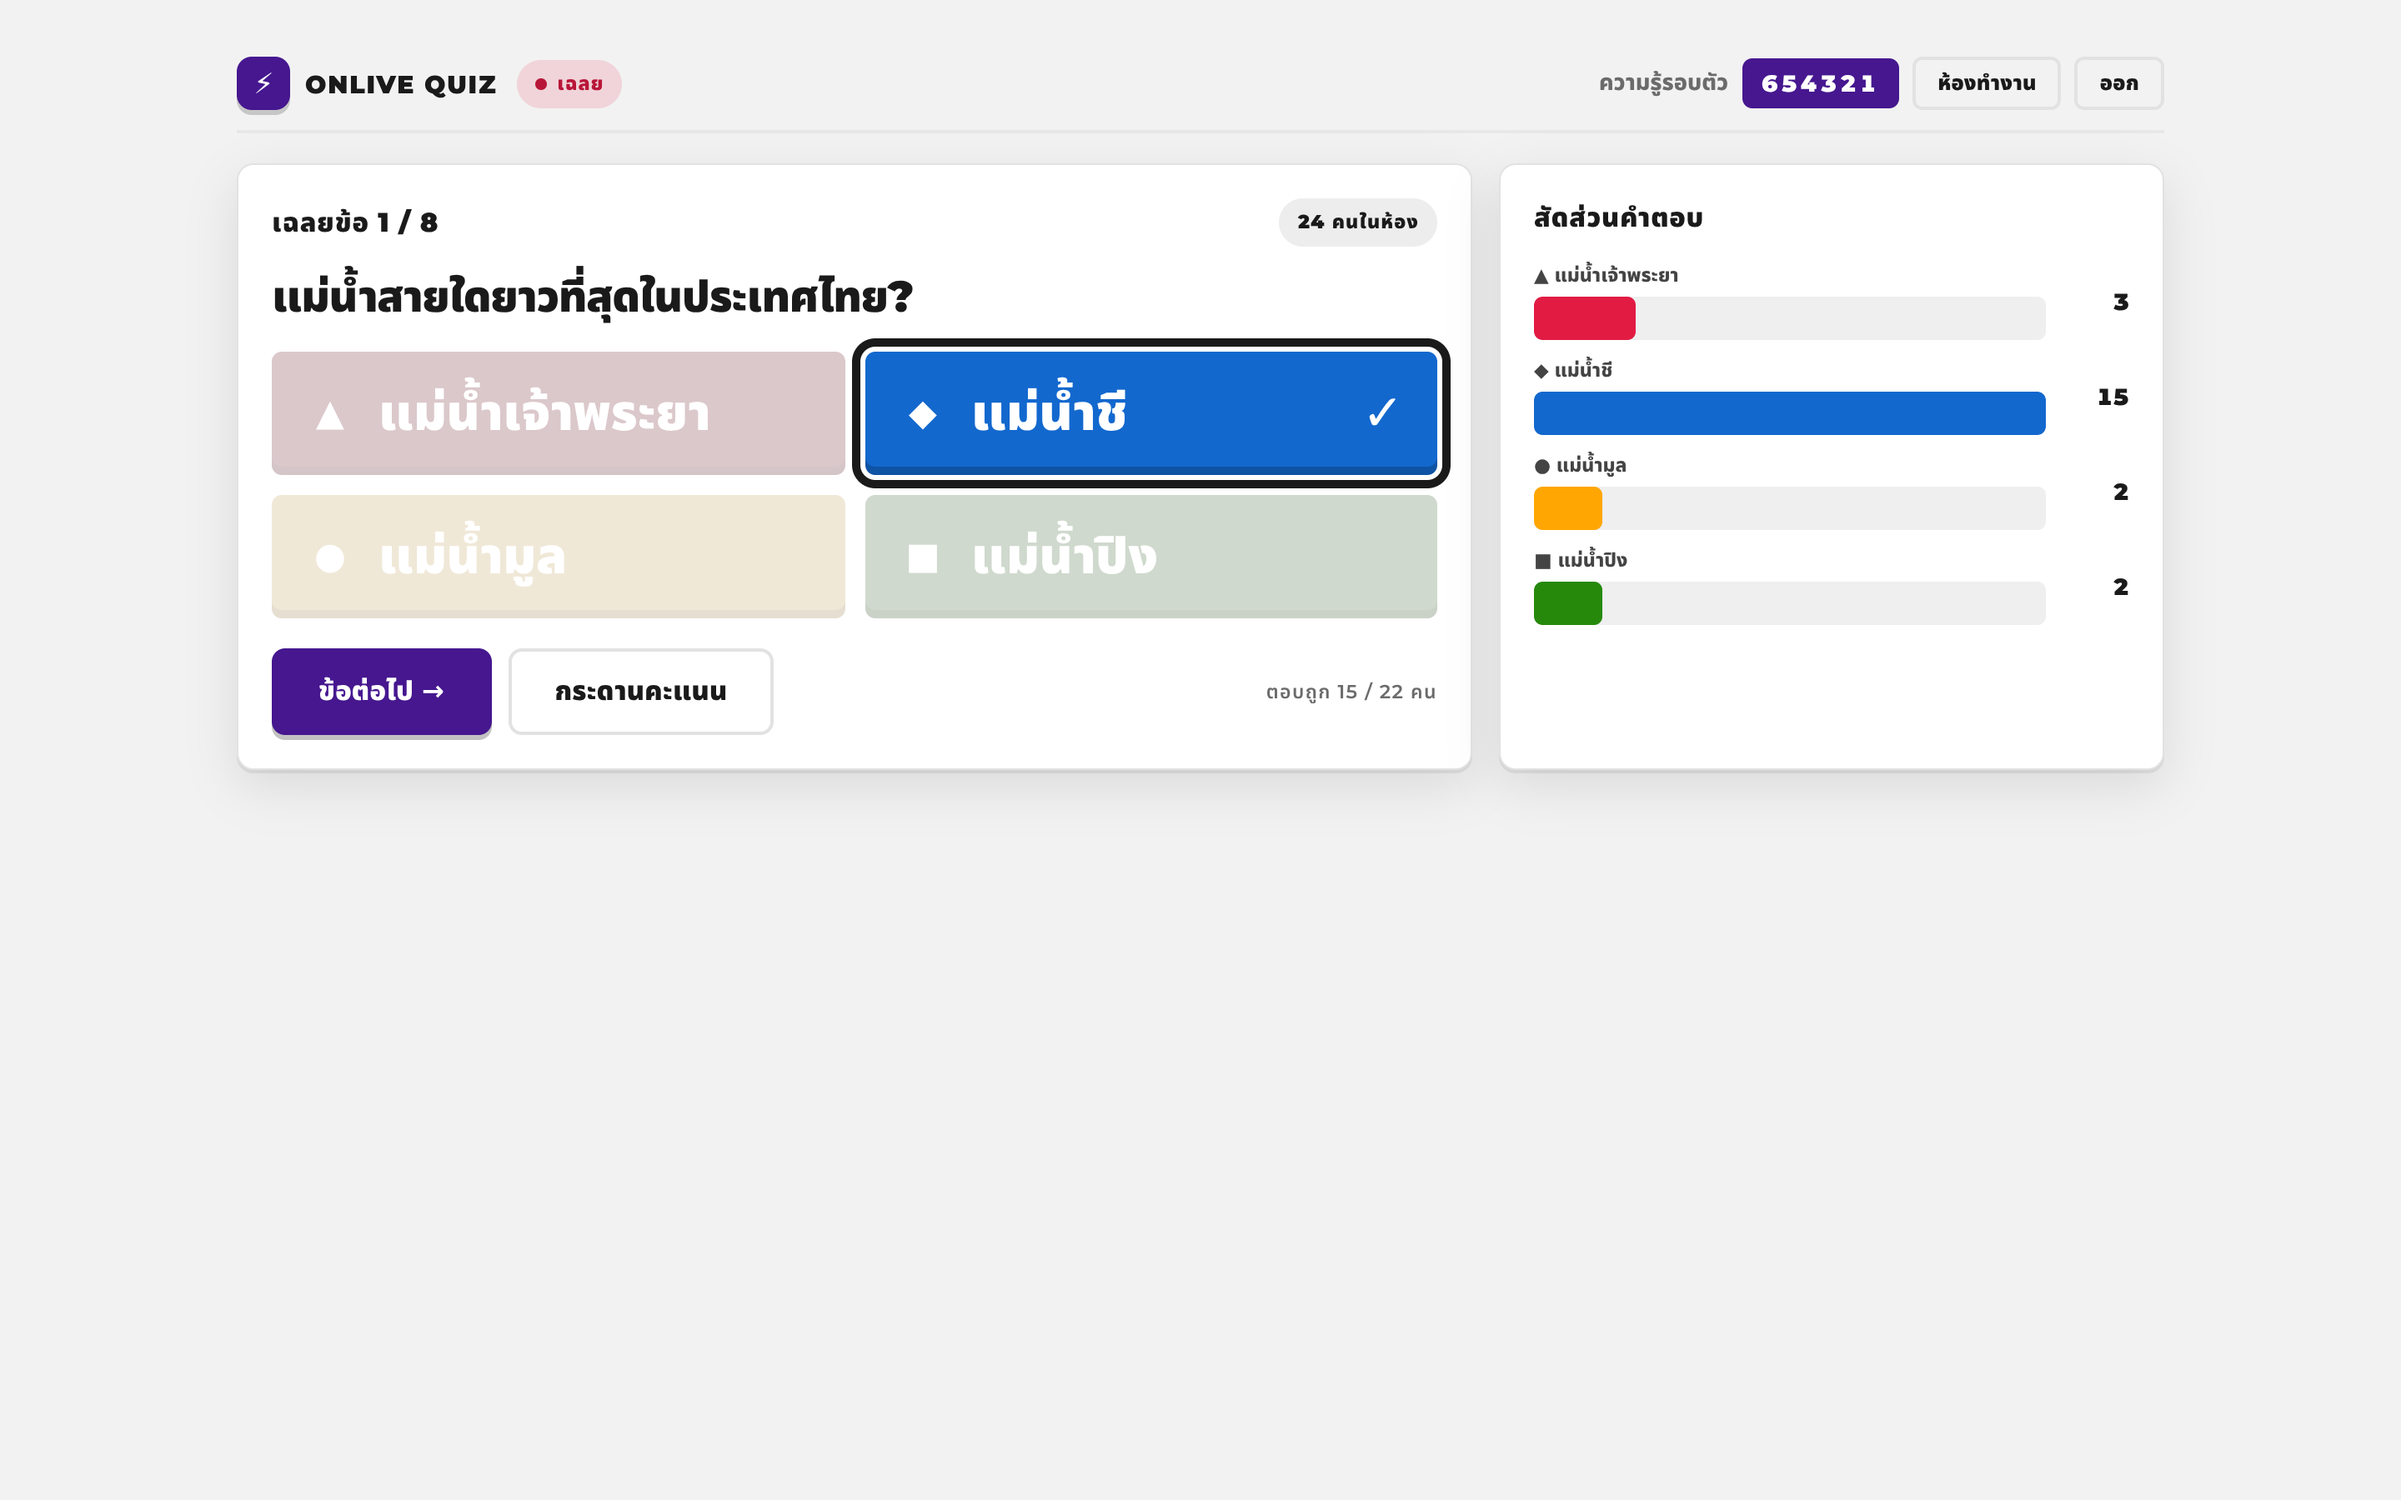
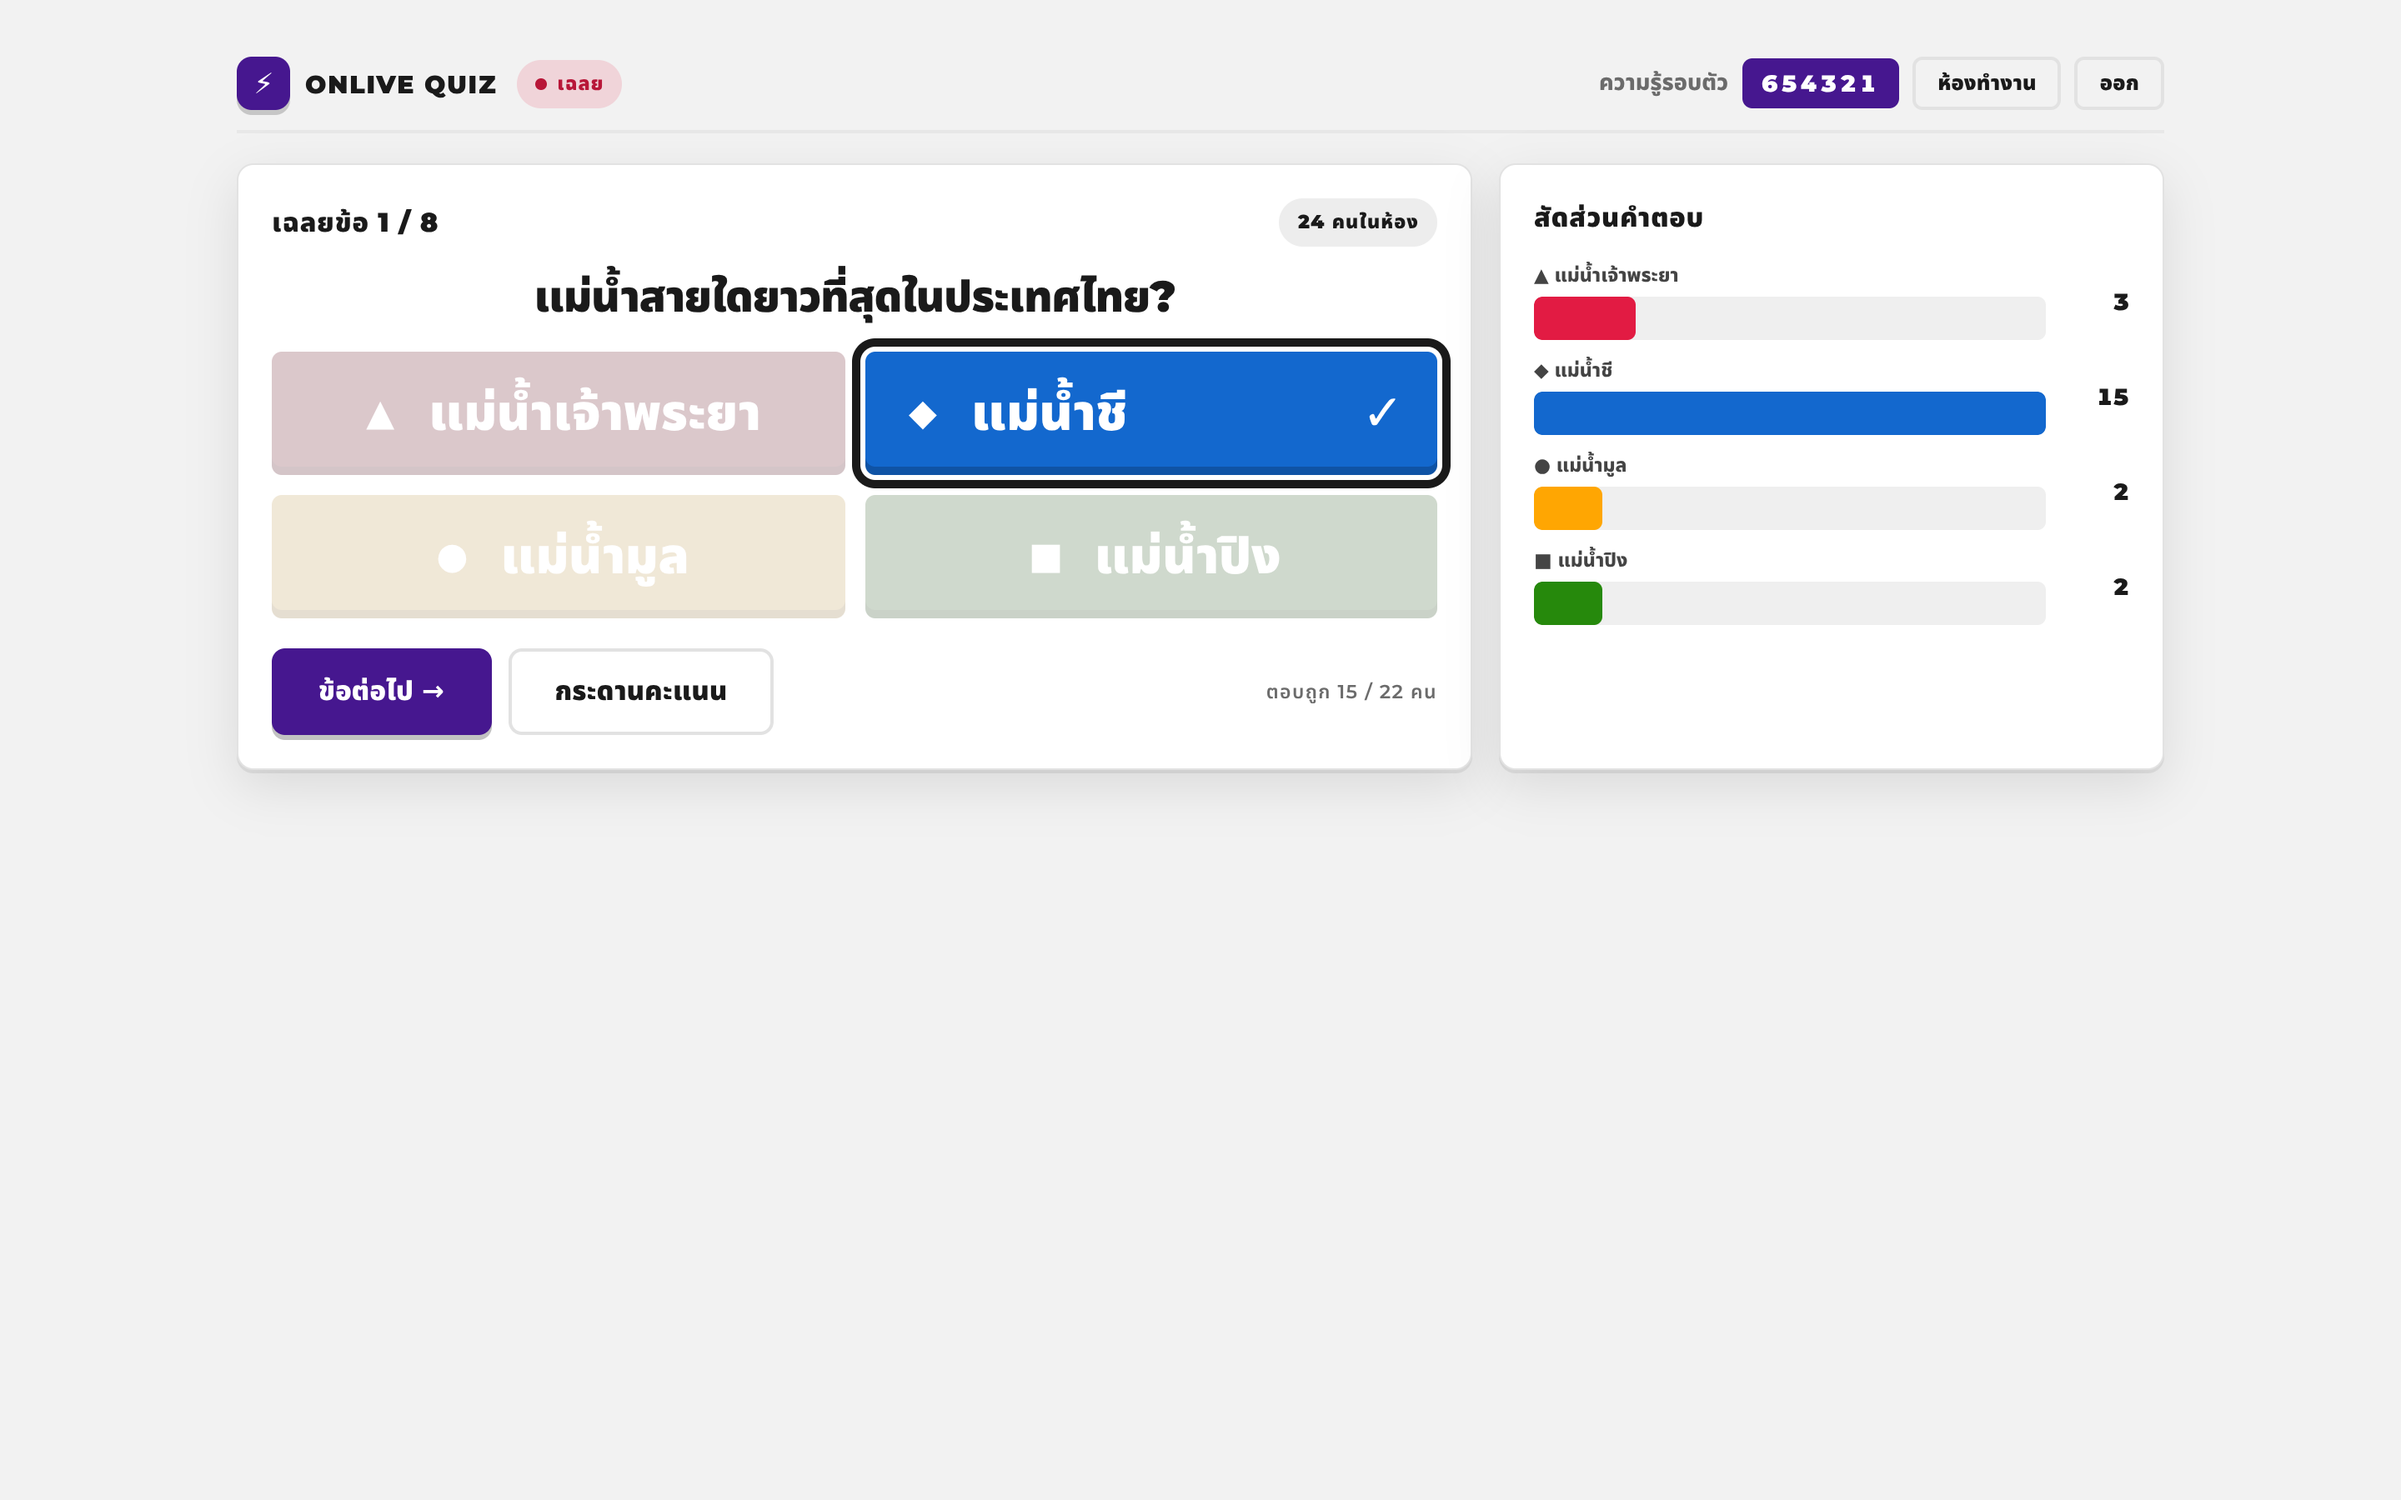
polish(design): centre host answer tiles + question, tune wordmark ratio
- host answer tiles: shape+label centred as a group (Kahoot layout)
- host prompt centred on question and reveal screens
- landing wordmark 0.80x card width (was 1.04x)
- kahoot-study.md: add round-2 compare table, findings F6-F8, unknown U4

diff --git a/docs/assets/css/app.css b/docs/assets/css/app.css
@@ -214,7 +214,7 @@ body.theme-play .card .pill{background:rgba(0,0,0,.07); color:var(--ink)}
 
 /* โลโก้ใหญ่กลางหน้าร่วมเกม */
 .k-logo-big{
-  font-weight:900; font-size:clamp(34px,5.6vw,62px); line-height:.92; text-align:center;
+  font-weight:900; font-size:clamp(30px,4.2vw,48px); line-height:.95; text-align:center;
   letter-spacing:-.045em; color:#fff; text-transform:lowercase;
   text-shadow:0 4px 0 rgba(0,0,0,.18);
 }
@@ -340,13 +340,13 @@ body.theme-host .timer .num{color:var(--purple)}
 }
 .host-prompt{
   font-size:clamp(24px,3.9vw,40px); font-weight:900; line-height:1.25; color:var(--ink);
-  letter-spacing:-.02em;
+  letter-spacing:-.02em; text-align:center;
 }
 .host-answers{display:grid; grid-template-columns:repeat(2,minmax(0,1fr)); gap:12px}
 .host-ans{
-  display:flex; align-items:center; gap:14px; padding:18px 20px; border-radius:6px;
+  display:flex; align-items:center; justify-content:center; gap:14px; padding:18px 20px; border-radius:6px;
   color:#fff; font-weight:900; font-size:clamp(16px,2.3vw,30px); line-height:1.2;
-  box-shadow:var(--shadow-tile); min-height:74px;
+  text-align:center; box-shadow:var(--shadow-tile); min-height:74px;
   transition:opacity .25s, filter .25s, outline-color .2s;
 }
 .host-ans .sh{font-size:clamp(16px,1.6vw,22px); width:30px; text-align:center; flex:0 0 auto}

diff --git a/docs/design/kahoot-study.md b/docs/design/kahoot-study.md
@@ -87,7 +87,37 @@
 - `U2` ฟอนต์ต้นฉบับเป็นฟอนต์เฉพาะของ Kahoot (Montserrat ไม่ใช่ตัวเดียวกัน) → ใกล้เคียงแต่ไม่เหมือน 100%
 - `U3` ความสูงการ์ดต่างจากต้นฉบับ 5 px เพราะเรามีบรรทัดคำอธิบายใต้การ์ด (ตั้งใจ)
 
-## 9. Handoff
+## 9. รอบที่ 2 — ตรวจแบบเทียบเคียง (compare)
+
+รอบนี้เพิ่มขั้น "compare" แบบเดียวกับที่ craft-anything ใช้ในการ *check*: วางภาพต้นฉบับกับภาพที่เราสร้าง
+ไว้ข้างกันที่ viewport เดียวกัน แล้ววัดกล่อง/สีของทั้งสองภาพด้วยสคริปต์เดียวกัน
+
+| ตัวชี้วัด | kahoot.it | onlive quiz | ผล |
+|---|---|---|---|
+| สีพื้น | `#371272` | `#371272` | ตรง |
+| สีลายเรขาคณิต | `#321066` | `#321066` | ตรง |
+| ความกว้างการ์ด | 318–324 px | 322–324 px | ตรง (±3) |
+| ความสูงช่องกรอก | 48 px | 48 px | ตรง |
+| ความสูงปุ่ม | 44 px | 44 px | ตรง |
+| ช่องไฟกรอก→ปุ่ม | 10 px | 10 px | ตรง |
+| ขอบช่องกรอก | `#cccccc` 2 px | `#cccccc` 2 px | ตรง |
+| ปุ่ม | `#333333` + เงา inset 4 px | `#333333` + เงา inset 4 px | ตรง |
+| ความกว้าง wordmark ÷ การ์ด | 0.60 | 0.80 | **ต่าง** (ดู `U4`) |
+
+### Findings เพิ่มเติม
+
+| id | ข้อสรุป | หลักฐาน | ใช้ที่ |
+|---|---|---|---|
+| `F6` | ไทล์คำตอบบนจอผู้จัด: ทรง + ข้อความ จัดกลุ่มไว้ **กลางไทล์** ไม่ชิดซ้าย | `E2` (ภาพหน้าจอผู้เล่น/ผู้จัด) | `.host-ans{justify-content:center;text-align:center}` |
+| `F7` | คำถามบนจอผู้จัดจัดกลาง | `E2` | `.host-prompt{text-align:center}` |
+| `F8` | ไม่ต้องมีปุ่ม "Join" แยก — ใช้ปุ่ม Enter ใต้ช่องกรอกในการ์ดเดียวกัน | `E1`,`O3` | `index.html` |
+
+### Unknowns เพิ่มเติม
+
+- `U4` wordmark ของเรา ("onlive quiz" 11 ตัวอักษร) กว้างกว่าสัดส่วนต้นฉบับ ("Kahoot!" 6 ตัวอักษร) ถ้าลดให้ได้ 0.60
+  ต้องใช้ฟอนต์ราว 36 px ที่จอ 1200 ซึ่งเล็กเกินไปในทางปฏิบัติ → เลือก 0.80 เป็นค่าประนีประนอม (ตั้งใจ, ไม่ใช่ความผิดพลาด)
+
+## 10. Handoff
 
 - ถ้าจะปรับอีก: วัดค่าใหม่จาก `E3` (สคริปต์สแกนพิกเซล) ก่อนแก้ทุกครั้ง แล้ววัดด้วย `E4` ยืนยันซ้ำ อย่าปรับด้วยสายตา
 - หลุมที่เคยพลาด: ลายพื้นหลังขาว (แก้แล้ว `F1`), ปุ่มโทนดำสนิท `#1a1a1a` (ต้องเป็น `#333333` `F4`)
